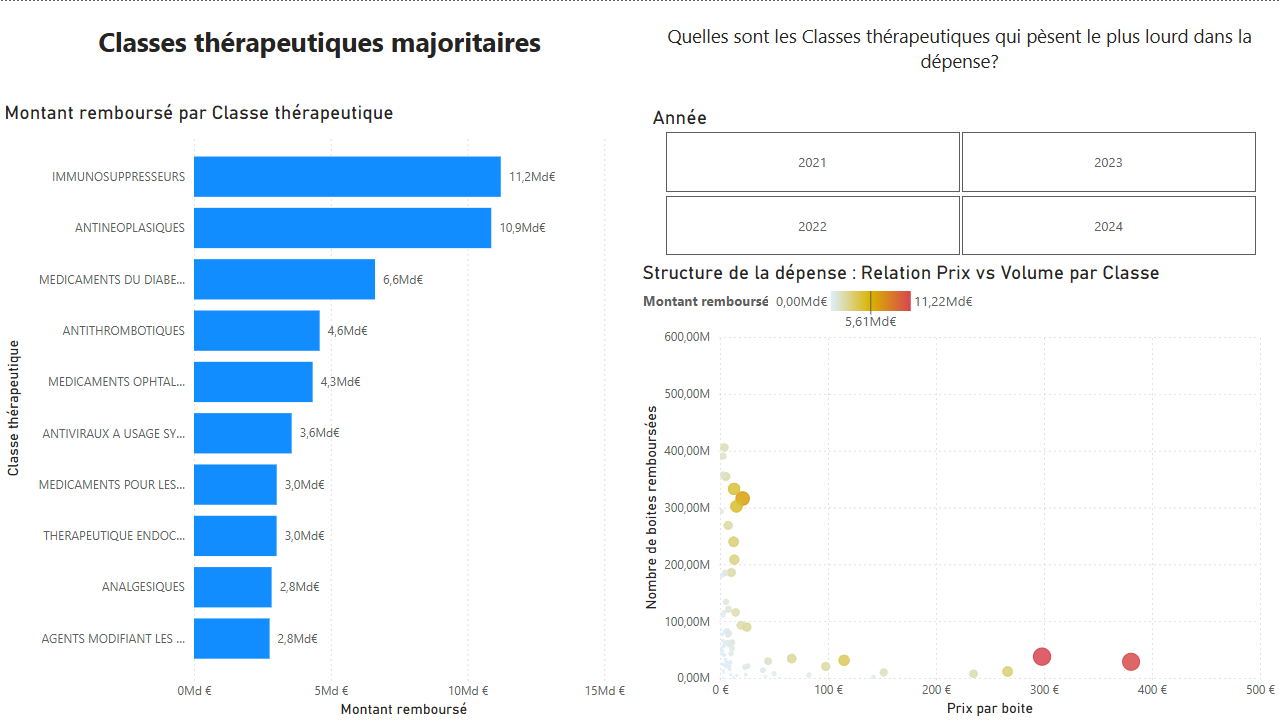
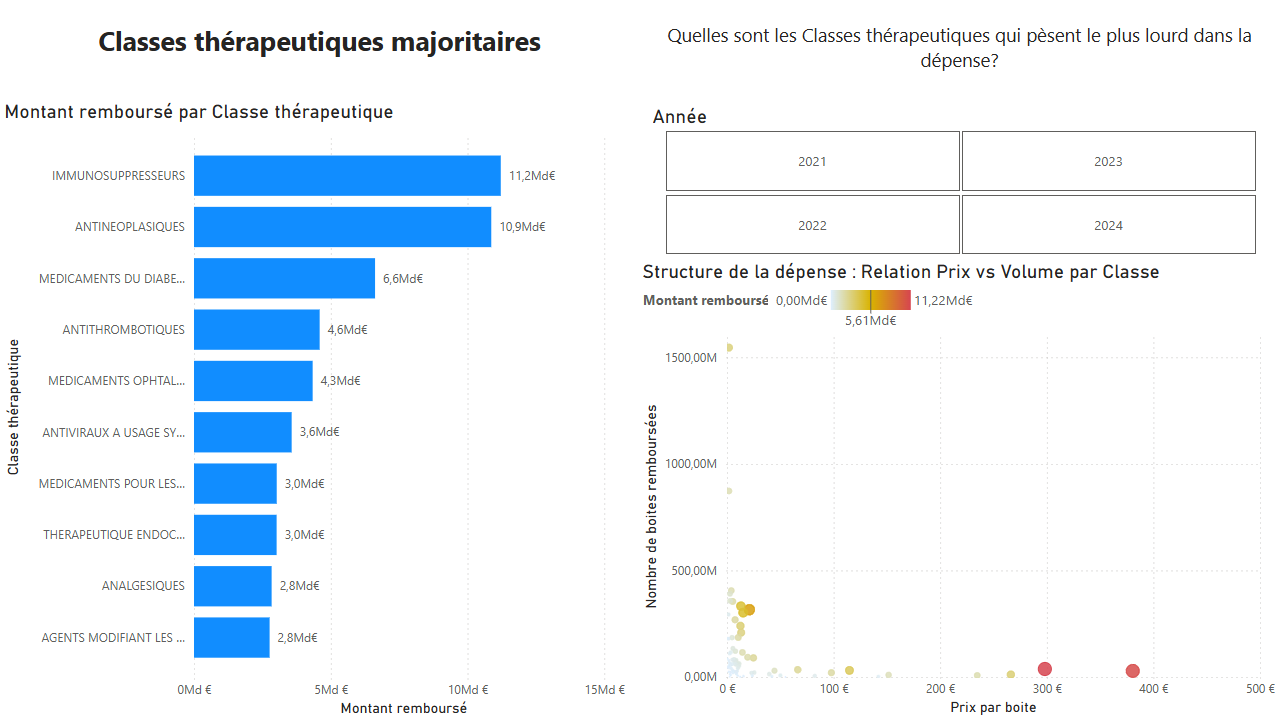
ajout slide 3 et 4

diff --git a/app_pages/medicaments.py b/app_pages/medicaments.py
@@ -16,8 +16,8 @@ def render():
     # Titre Principal
     st.title("📊 Analyse des Coûts et Volumes des Médicaments Remboursés (2021-2024)")
     st.markdown("""
-    **Contexte :** Ce projet Power BI vise à monitorer la soutenabilité des dépenses de santé liées aux médicaments de ville en France. 
-    L'objectif est d'identifier les corrélations entre le volume de consommation et la charge financière réelle pour la Sécurité Sociale.
+    **Contexte :** Ce projet Power BI vise à monitorer et analyser les dépenses de santé liées aux médicaments de ville en France. 
+    L'objectif est d'identifier les tendances de consommation et les coûts associés afin d'optimiser la gestion des ressources de santé publique dans un contexte post-pandémique et inflationniste.
     """)
 
     st.divider()
@@ -41,7 +41,7 @@ def render():
         *   **Indicateur de Coût Unitaire :** Suivi de l'évolution du prix moyen par boîte.
         
         **Ce que les données racontent :**
-        1.  **L'Effet Ciseaux :** Alors que les volumes de consommation suivent une saisonnalité stable (~2,3 Mrd boîtes/an), la courbe des dépenses décroche vers le haut. La hausse des coûts n'est pas due à une "surconsommation" en volume.
+        1.  **L'Effet Ciseaux :** Alors que les volumes de consommation suivent une saisonnalité stable (~2,3 Md boîtes/an), la courbe des dépenses décroche vers le haut. La hausse des coûts n'est pas due à une "surconsommation" en volume.
         2.  **Inflation Structurelle :** Le prix moyen de la boîte remboursée a bondi de **+22% en 4 ans**, passant de **9,27 € (2021)** à **11,31 € (2024)**.
         
         **Point de vigilance (Qualité de donnée) :**
@@ -56,8 +56,6 @@ def render():
     col3, col4 = st.columns([2, 1])
 
     with col3:
-        # Utilisation de l'image Classe_therapeutique.png ou Focus_classe_therapeutique.png selon votre besoin pour cette section
-        # Ici j'utilise Classe_therapeutique.png comme exemple pour la slide 2
         if classe_therapeutique_path.exists():
              st.image(str(classe_therapeutique_path), caption="Top Classes & Matrice Prix/Volume", use_column_width=True)
         else:
@@ -67,15 +65,106 @@ def render():
         st.subheader("🔎 Analyse & Insights")
         st.markdown("""
         **Méthodologie :**
-        *   **Matrice Prix/Volume (Échelle Log) :** Segmentation des classes thérapeutiques pour isoler les profils de dépenses.
+        *   **Classement par Valeur (Bar chart) :** Hiérarchisation des classes thérapeutiques par montant total remboursé sur la période.
+        *   **Matrice Prix/Volume (Scatter plot) :** Segmentation des classes thérapeutiques. L'axe X représente le coût unitaire (prix moyen par boîte) et l'axe Y le volume de consommation (nombre de boîtes). La couleur indique l'intensité de la dépense totale.
         
         **Ce que les données racontent :**
-        1.  **Les "Poids Lourds" financiers :** Le classement est dominé par les **Immunosuppresseurs (11,2 Md€)** et les **Antinéoplasiques (10,9 Md€)**. Ce sont des traitements de spécialité coûteux.
+        1.  **Les "Poids Lourds" financiers :** Le classement est dominé par les **Immunosuppresseurs (11,2 Md€)** et les **Antinéoplasiques (10,9 Md€)**. Ce sont des traitements de spécialités coûteuses qui représentent à elles seules une part massive du budget, bien loi ndevant les médicaments du diabète.
         2.  **Stabilité des dépenses :** Le Top 5 des postes de dépenses reste remarquablement stable sur 4 ans, indiquant une forte inertie structurelle.
         
         3.  **La Dichotomie du Marché (Lecture du Graphique) :**
-            *   **La diagonale du vide :** L'échelle logarithmique révèle une corrélation inverse claire : plus un médicament est cher, moins il est prescrit en volume.
-            *   **Les anomalies (Outliers) :** On repère immédiatement les exceptions comme l'**Apixaban** (point rouge isolé au-dessus de la tendance), qui représente un compromis volume/prix très coûteux pour l'Assurance Maladie.
+            *   **Les "Blockbusters" de volume (en haut à gauche) :** Des médicaments peu couteux (>50€) mais consommés en quantités massives (Analgésiques, Antiépileptiques). Leur impact budgétaire vient de la masse.
+            *   **Les "Médicaments de niche" couteux (En bas à droite) :** Des volumes faibles, mais des prix unitaires extrêmement élevés (>300€/boîte). C'est le profil type des thérapies ciblées (cancer, maladies auto immunes).
+        """)
+
+    st.divider()
+
+    # --- SLIDE 3 : CLASSES THÉRAPEUTIQUES ---
+    st.header("3. Focus Sectoriel & Taux de Prise en Charge")
+
+    col5, col6 = st.columns([2, 1])
+
+    with col5:
+        if focus_path.exists():
+             st.image(str(focus_path), caption="Analyse détaillée du Top 5", use_column_width=True)
+        else:
+             st.warning(f"Image non trouvée : {focus_path}")
+
+    with col6:
+        st.subheader("🔎 Analyse & Insights")
+        st.markdown("""
+        **Méthodologie :**
+        *   **Filtrage dynamique :** Utilisation de filtres contextuels pour isoler les tendances des postes les plus importants (Antinéoplasiques, Diabète, etc.)
+        *   **Analyse des Taux :** Segmentation par taux de prise en charge (100% vs Reste à charge).
+        
+        **Ce que les données racontent :**
+        1.  **L'envolée de 2024 :** On observe une rupture de tendance nette. Après une stabilité relative (2021 - 2022), la dépense du Top 5 s'envole pour atteindre **10,5Md€ en 2024**, soit près de **+20%** sur la période.
+        2.  **un Budget rigide (Le mur du 100%) :** 
+                    Le graphique de droite est sans appel : **64 Md€*** (soit les 2/3 de la dépense) concernent des soins remboursés à **100%** (ALD - Affectation Longue Durée).
+                    *Conclusion :* L'essentiel de la dépense est structurel et incompressible, lié aux maladies chroniques (Cancer, Diabète) où le patient n'avance pas les frais.
+        """)
+
+    st.divider()
+
+    # --- SLIDE 4 : DÉPENSES PAR SUBSTANCE CHIMIQUE ---
+    st.header("4. Dépenses par substance chimique")
+
+    col7, col8 = st.columns([2, 1])
+
+    with col7:
+        if focus_path.exists():
+             st.image(str(depenses_path), caption="Analyse détaillée du Top 5", use_column_width=True)
+        else:
+             st.warning(f"Image non trouvée : {depenses_path}")
+
+
+    with col8:
+        st.subheader("🔎 Analyse & Insights")
+        st.markdown("""
+        **Méthodologie :**  
+        *   **Classement par molecule :** Identification du **Top 10 des substances chimiques** selon le montant remboursé total sur la période.
+        *   **Mise en contexte macro :** Rappel de l’évolution du **prix moyen d’une boîte remboursée** entre 2021 et 2024.
+                    
+        **Ce que les données racontent :**
+        1.  **Une poignée de molécules absorbe une part majeure de la dépense :**  
+            Le bar chart met en évidence quelques molécules “phares” :
+            *   **Apixaban** en tête avec environ **1,65 Md€** remboursés,  
+            *   des biothérapies et traitements de spécialité comme **Adalimumab**, **Aflibercept**, **Tafamidis**, chacune autour de **1 Md€**,  
+            *   et même le **Paracétamol**, dont la présence dans le Top 10 s’explique par un **volume de délivrance colossal** plutôt que par un prix unitaire élevé.
+        2.  **Deux profils extrêmes dans le Top 10 :**  
+            *   des molécules **très chères à volume modéré**, typiques des traitements innovants (anticancéreux, biothérapies, anticoagulants oraux directs) ;  
+            *   des molécules **peu chères mais massivement consommées** (Paracétamol), qui illustrent l’effet “volume”.
+        3.  **Une dépense portée par l’inflation du prix unitaire :**  
+            Le graphique de droite rappelle que le **prix moyen d’une boîte remboursée** est passé de **9,27 € en 2021** à **11,31 € en 2024** (environ **+22 %**).  
+            Ces molécules du Top 10 s’inscrivent dans ce mouvement général : la hausse de la dépense ne vient pas seulement des volumes, mais aussi du **glissement du mix vers des molécules plus coûteuses**.
+        """)
+
+    # --- FOCUS QUALITÉ DE DONNÉES / AFLIBERCEPT ---
+    with st.expander("🧪 Focus qualité de données : le cas Aflibercept (Eylea)"):
+        st.markdown("""
+        Lors de l’analyse détaillée par substance, **Aflibercept** présente un comportement anormal :
+
+        * Le calcul brut du **prix moyen par boîte** aboutissait à un niveau autour de **56 €** en 2021, très en dessous du prix réel attendu (plusieurs centaines d’euros par injection).
+        * En examinant les données au niveau mensuel, on observe un schéma incohérent :
+            * de **janvier à juin** : nombreuses délivrances codées avec un **montant remboursé nul (0 €)** ;
+            * de **juillet à décembre** : délivrances codées avec un **taux de remboursement de 65 %**, alors que ce médicament est normalement pris en charge à **100 %** via ordonnance d’exception (ou à 0 % dans quelques cas particuliers).
+
+        **Interprétation :**
+        * Ces codages (0 % / 65 %) ne correspondent pas au cadre réglementaire connu pour Aflibercept.
+        * Il est donc probable qu’il s’agisse d’un **problème de qualité ou de paramétrage** dans la base AMELI.
+        * Conséquence : les **montants remboursés pour cette molécule sont probablement sous‑estimés**, et les **prix moyens bruts sont trompeurs**.
+
+        **Choix méthodologiques :**
+        * Pour les **montants totaux**, le dashboard affiche `SUM(Montant_remboursé)` tel que publié dans la base publique :  
+        cela reflète la **dépense comptable enregistrée** par l’Assurance Maladie, même si certains montants peuvent être inférieurs à ce qu’ils “devraient” être en théorie.
+        * Pour les **prix moyens par boîte**, une mesure dédiée (non montrée ici mais utilisée ailleurs dans le rapport) ne tient compte que des **lignes effectivement remboursées** (`Montant_remboursé > 0`), afin d’éviter de mélanger :
+            * les boîtes réellement prises en charge par l’AMO,
+            * et les délivrances hors remboursement (0 €) ou manifestement mal codées.
+
+        Ce cas illustre l’importance de :
+        * confronter les données Open Data à la réalité médico‑économique,
+        * documenter les limites et anomalies repérées,
+        * et adapter les indicateurs (ici, les prix moyens) pour qu’ils restent interprétables.
         """)
 
     # Pied de page
